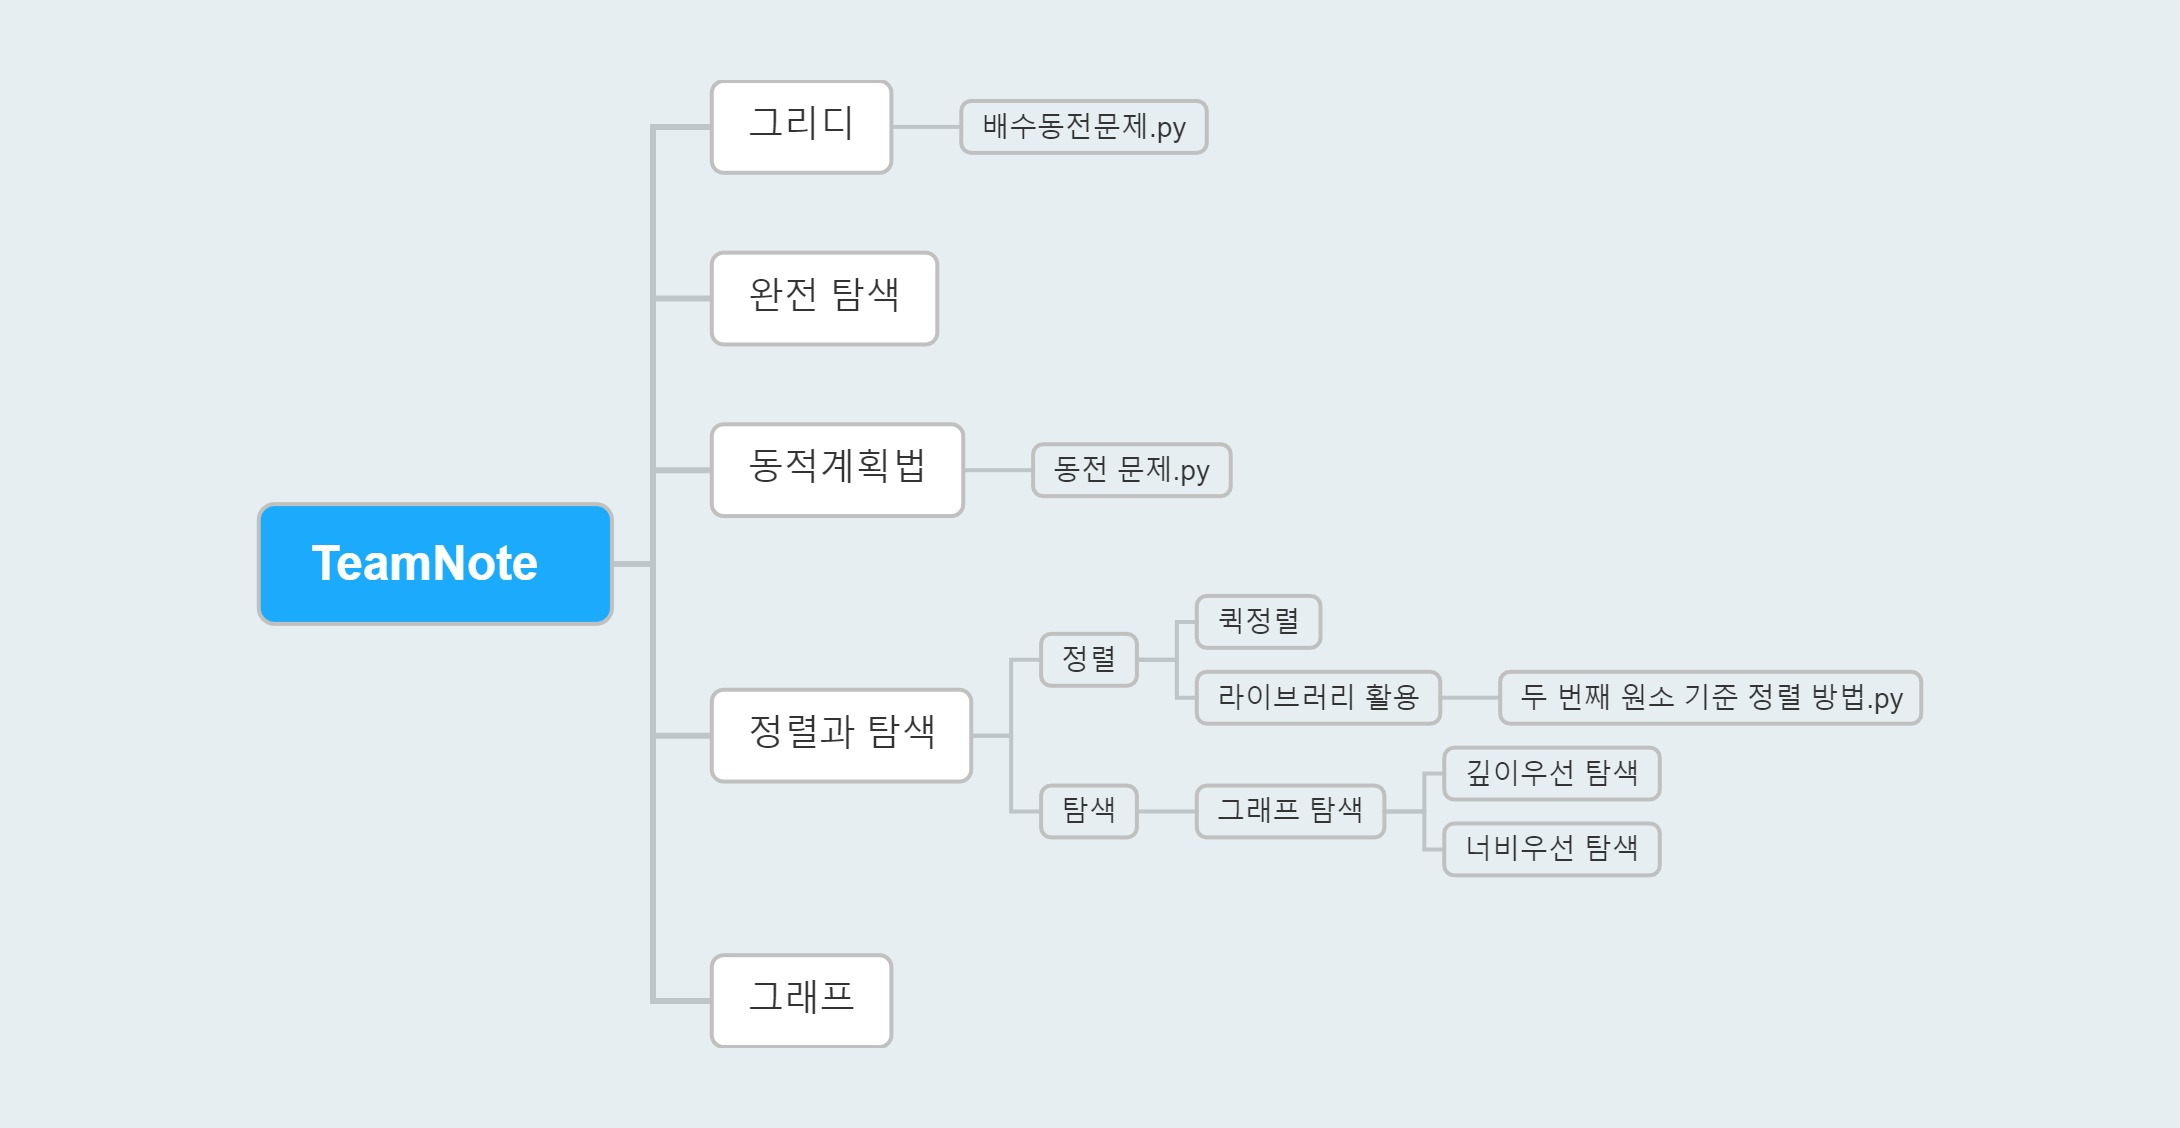
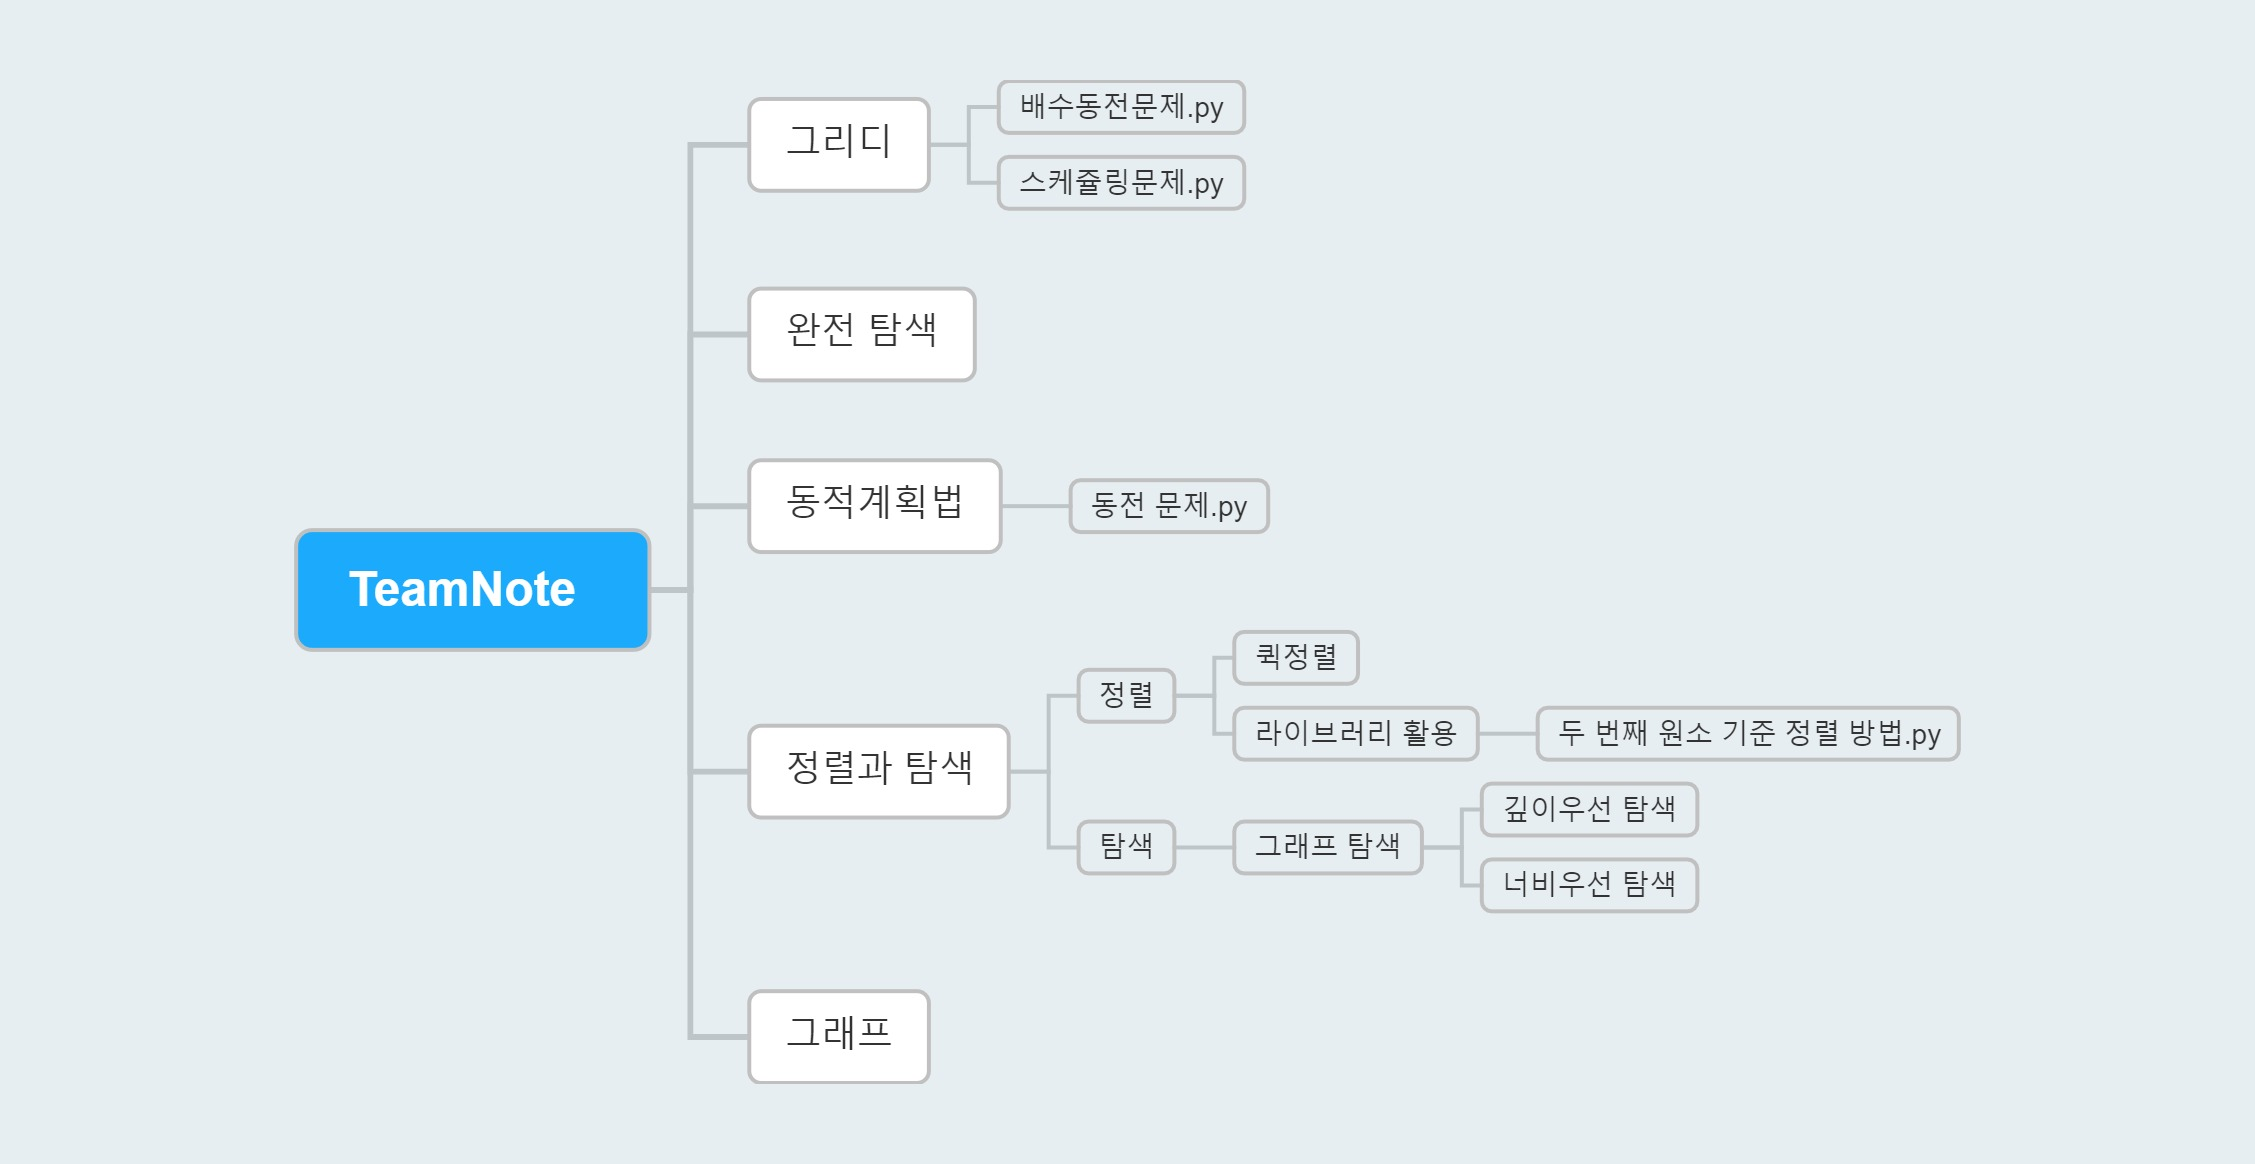
스케줄링

Changed region(s): [[0.0936, 0.0621, 0.8734, 0.9309]]

diff --git a/그리디/스케줄링문제.py b/그리디/스케줄링문제.py
@@ -1,0 +1,15 @@
+N = int(input())
+
+tlst = []
+for _ in range(N):
+    tlst.append(tuple(map(int, input().split())))
+
+tlst = sorted(tlst, key=lambda x:(x[1],x[0]))
+curtime=0
+cnt=0
+for s, e in tlst:
+    if s>=curtime:
+        cnt+=1
+        curtime = e
+
+print(cnt)
